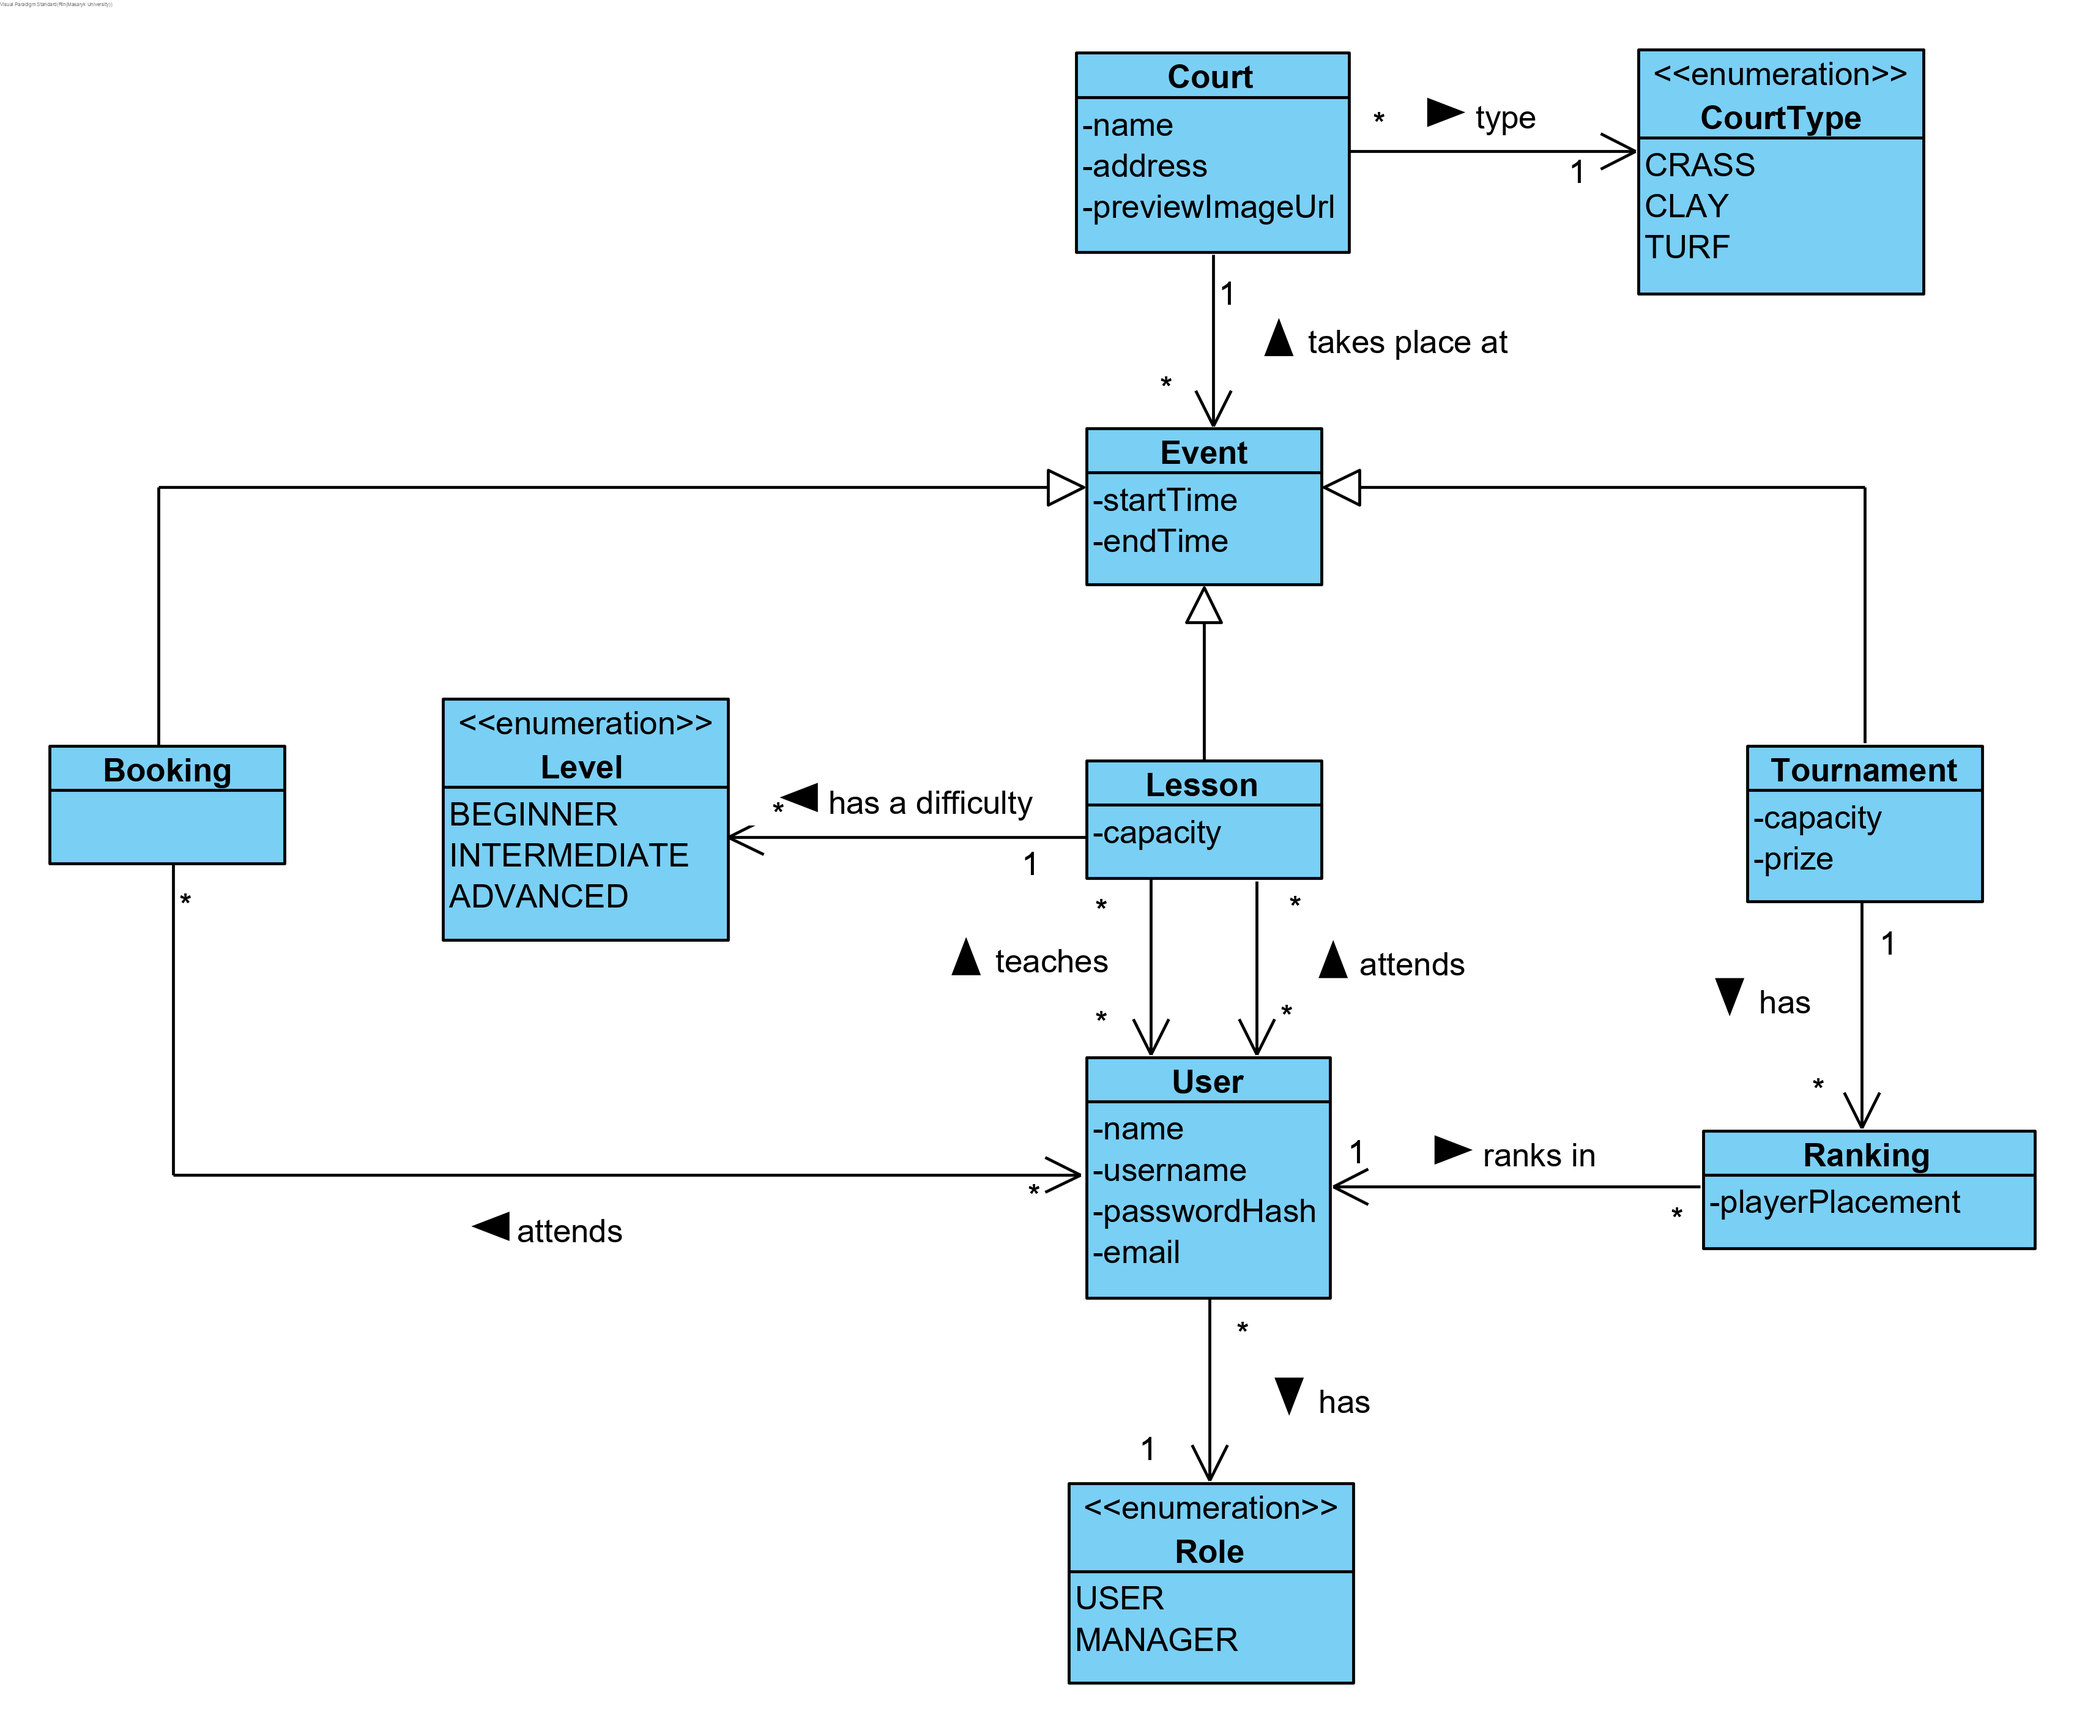
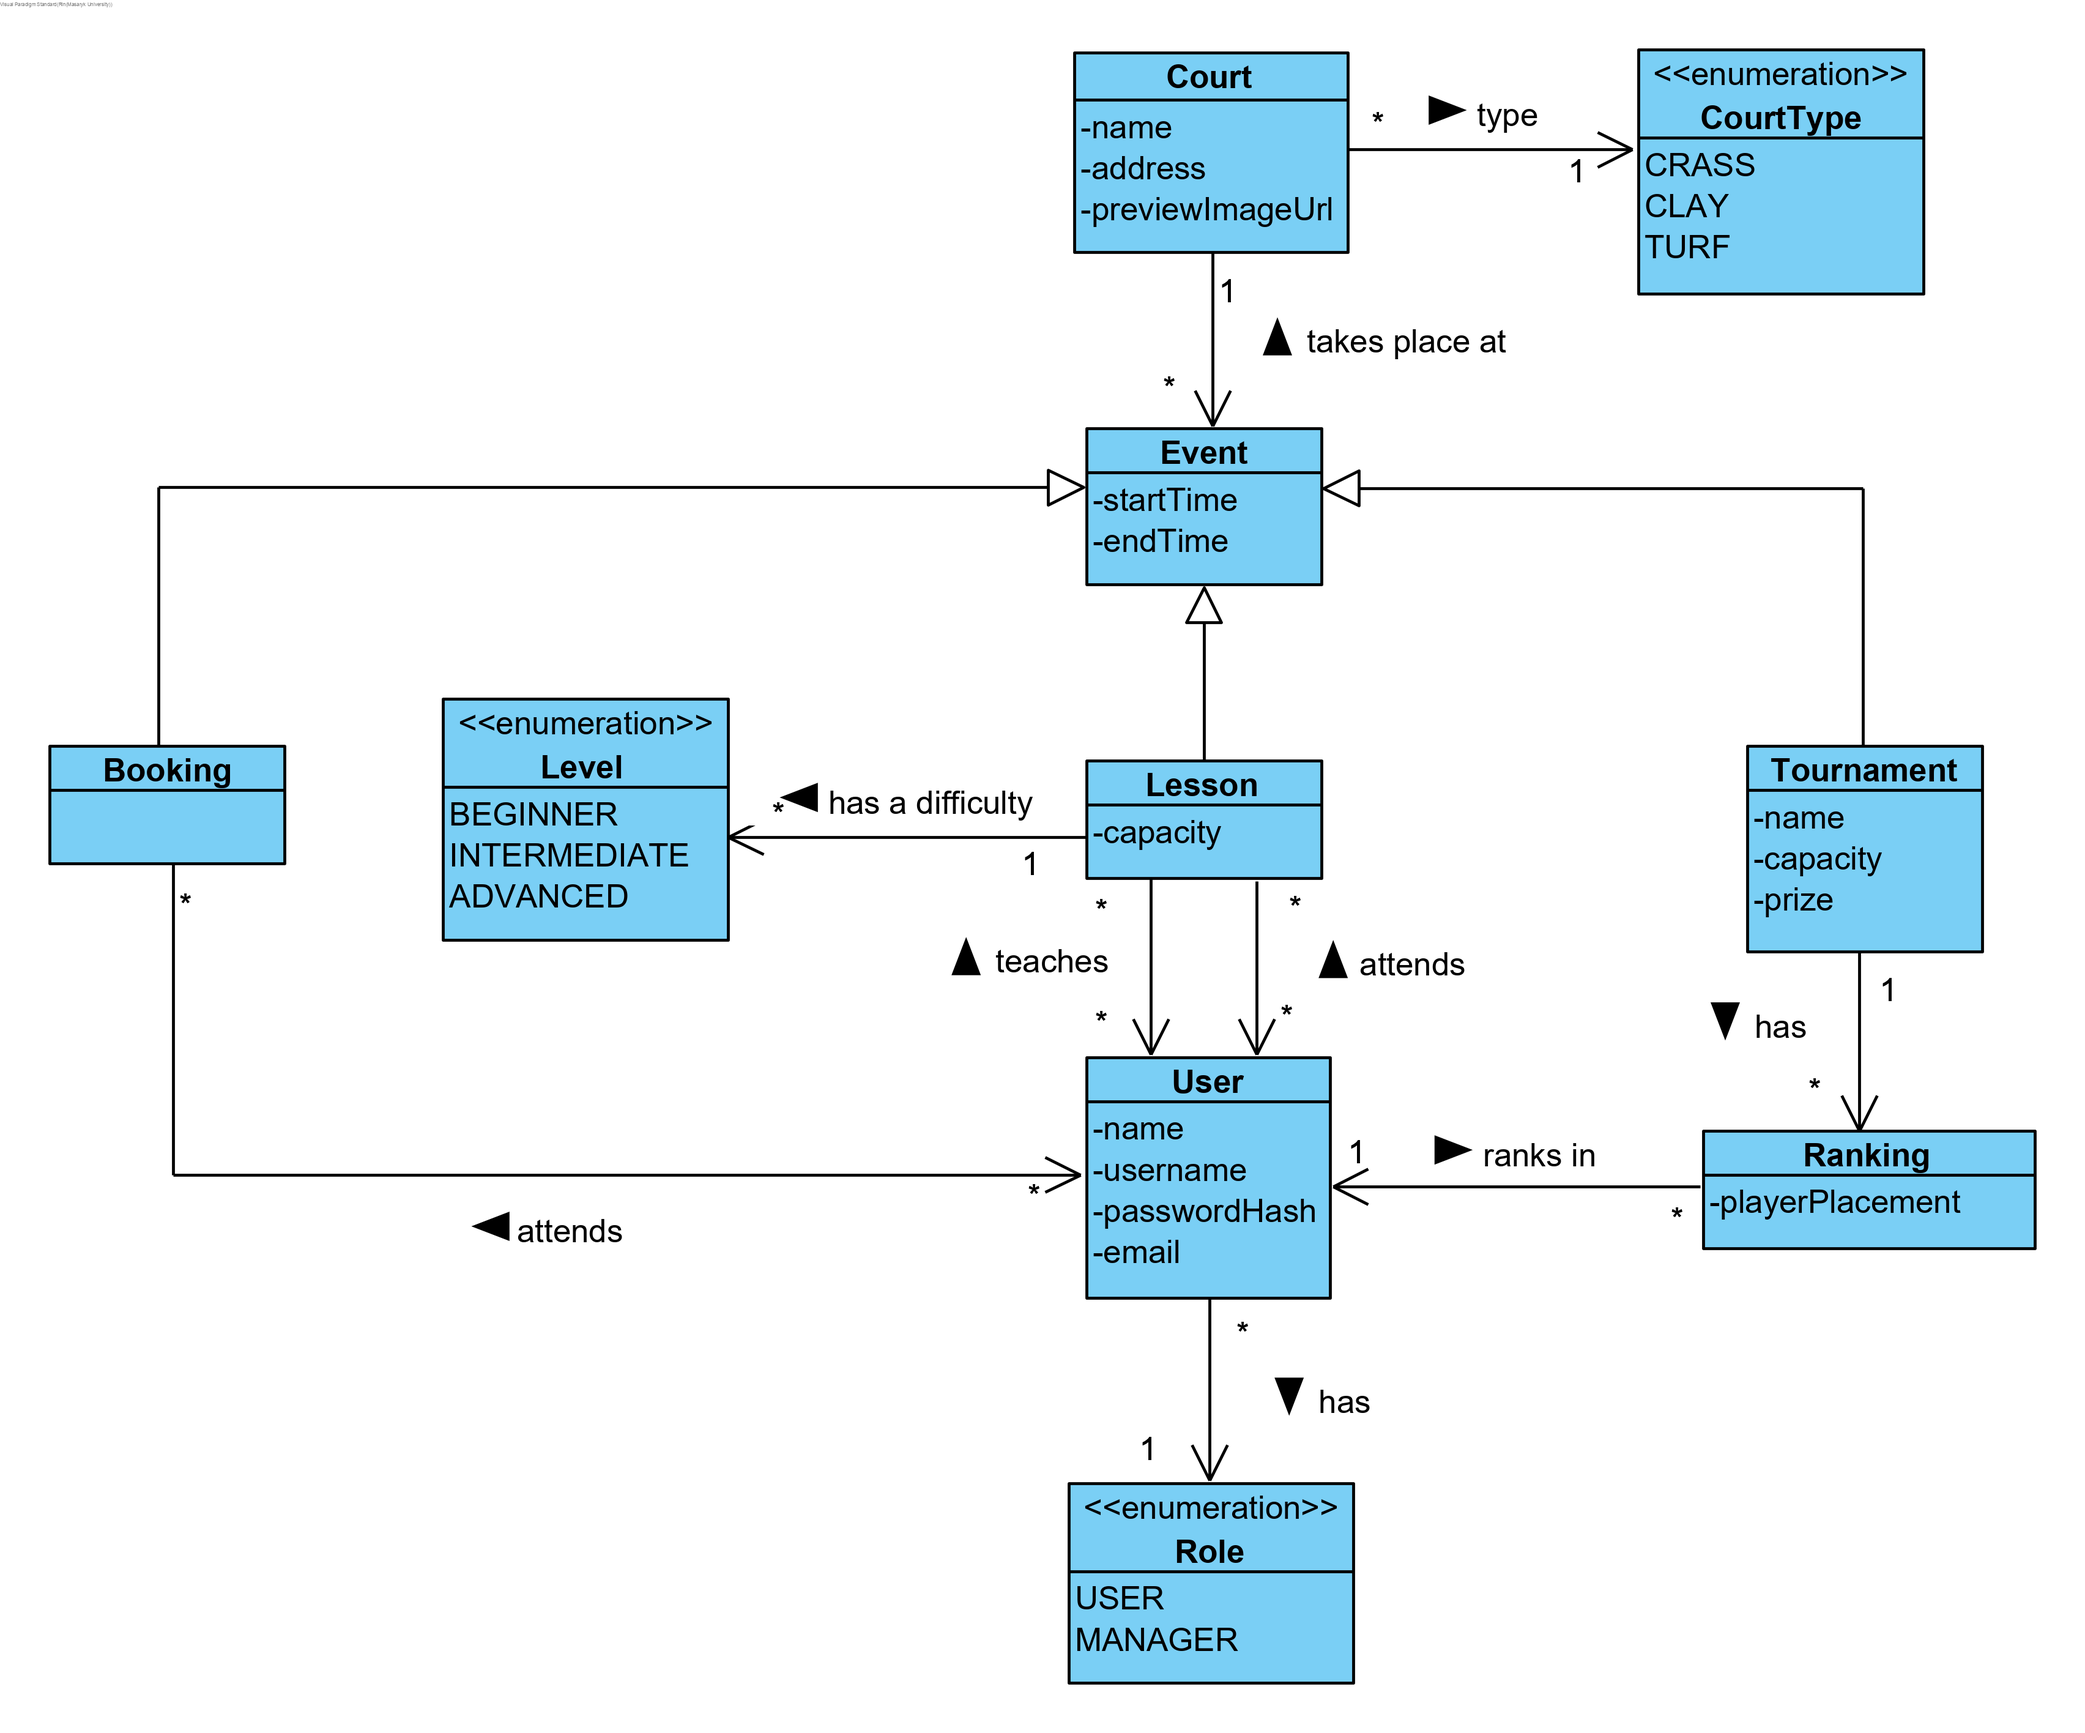
added name to Tournament entity
With that, the tests were adjusted accordingly

diff --git a/persistence/src/test/java/tennisclub/dao/EventDaoTest.java b/persistence/src/test/java/tennisclub/dao/EventDaoTest.java
@@ -68,7 +68,7 @@ public class EventDaoTest {
     private Event event = new Event(eventStart, eventEnd);
     private Event booking = new Booking(bookingStart, bookingEnd);
     private Event lesson = new Lesson(lessonStart, lessonEnd, Level.BEGINNER);
-    private Event tournament = new Tournament(tournamentStart, tournamentEnd, 10, 10000);
+    private Event tournament = new Tournament(tournamentStart, tournamentEnd, "Wimbledon",10, 10000);
 
 
     @BeforeEach
@@ -135,7 +135,7 @@ public class EventDaoTest {
 
     @Test
     public void testTournamentCreationOK(){
-        Event tournament = new Tournament(tournamentStart, tournamentEnd, 10, 10000);
+        Event tournament = new Tournament(tournamentStart, tournamentEnd,"Wimbledon", 10, 10000);
         tournament.setCourt(tournamentCourt);
         eventDao.create(tournament);
 
@@ -167,7 +167,7 @@ public class EventDaoTest {
 
     @Test
     public void testTournamentCreationWithoutCourt(){
-        Event tournament = new Tournament(tournamentStart, tournamentEnd, 10, 10000);
+        Event tournament = new Tournament(tournamentStart, tournamentEnd, "Wimbledon", 10, 10000);
         assertThatThrownBy(() -> eventDao.create(tournament)).isInstanceOf(DataIntegrityViolationException.class);
     }
 
@@ -591,7 +591,7 @@ public class EventDaoTest {
 
     @Test
     public void findTournamentsByCourtOfWhichThereAreTwoSharingTheSameCourt(){
-        Event otherTournament = new Tournament(otherStart, otherEnd, 10, 10000);
+        Event otherTournament = new Tournament(otherStart, otherEnd, "US OPEN", 10, 10000);
         otherTournament.setCourt(tournamentCourt);
         em.persist(otherTournament);
 
@@ -603,7 +603,7 @@ public class EventDaoTest {
 
     @Test
     public void findTournamentsByCourtOfWhichThereAreTwoNotSharingTheSameCourt(){
-        Event otherTournament = new Tournament(tournamentStart, tournamentEnd, 10, 10000);
+        Event otherTournament = new Tournament(tournamentStart, tournamentEnd, "US OPEN", 10, 10000);
         otherTournament.setCourt(otherCourt);
         em.persist(otherTournament);
 
@@ -687,7 +687,7 @@ public class EventDaoTest {
 
     @Test
     public void findTournamentsByStartTimeOfWhichThereAreTwoSharingTheSameStartTime(){
-        Event otherTournament = new Tournament(tournamentStart, tournamentEnd, 10, 10000);
+        Event otherTournament = new Tournament(tournamentStart, tournamentEnd, "US OPEN", 10, 10000);
         otherTournament.setCourt(otherCourt);
         em.persist(otherTournament);
 
@@ -699,7 +699,7 @@ public class EventDaoTest {
 
     @Test
     public void findTournamentsByStartTimeOfWhichThereAreTwoNotSharingTheSameStartTime(){
-        Event otherTournament = new Tournament(otherStart, otherEnd, 10, 10000);
+        Event otherTournament = new Tournament(otherStart, otherEnd, "US OPEN", 10, 10000);
         otherTournament.setCourt(tournamentCourt);
         em.persist(otherTournament);
 
@@ -783,7 +783,7 @@ public class EventDaoTest {
 
     @Test
     public void findTournamentsByEndTimeOfWhichThereAreTwoSharingTheSameEndTime(){
-        Event otherTournament = new Tournament(tournamentStart, tournamentEnd, 10, 10000);
+        Event otherTournament = new Tournament(tournamentStart, tournamentEnd,"US OPEN", 10, 10000);
         otherTournament.setCourt(otherCourt);
         em.persist(otherTournament);
 
@@ -795,7 +795,7 @@ public class EventDaoTest {
 
     @Test
     public void findTournamentsByEndTimeOfWhichThereAreTwoNotSharingTheSameEndTime(){
-        Event otherTournament = new Tournament(otherStart, otherEnd, 10, 10000);
+        Event otherTournament = new Tournament(otherStart, otherEnd, "US OPEN", 10, 10000);
         otherTournament.setCourt(tournamentCourt);
         em.persist(otherTournament);
 
@@ -1006,7 +1006,7 @@ public class EventDaoTest {
 
     @Test
     public void findTournamentByTimeIntervalStartTimeIsEqualToTo(){
-        Event otherTournament = new Tournament(tournamentEnd, tournamentEnd, 10, 10000);
+        Event otherTournament = new Tournament(tournamentEnd, tournamentEnd, "US OPEN", 10, 10000);
         otherTournament.setCourt(otherCourt);
         em.persist(otherTournament);
 
@@ -1018,7 +1018,7 @@ public class EventDaoTest {
 
     @Test
     public void findTournamentByTimeIntervalEndTimeIsEqualToFrom(){
-        Event otherTournament = new Tournament(tournamentStart, tournamentStart, 10, 10000);
+        Event otherTournament = new Tournament(tournamentStart, tournamentStart,"US OPEN", 10, 10000);
         otherTournament.setCourt(otherCourt);
         em.persist(otherTournament);
 
@@ -1030,7 +1030,7 @@ public class EventDaoTest {
 
     @Test
     public void findTournamentByTimeIntervalBothTimesAreOK(){
-        Event otherTournament = new Tournament(tournamentStart, tournamentEnd, 10, 10000);
+        Event otherTournament = new Tournament(tournamentStart, tournamentEnd,"US OPEN", 10, 10000);
         otherTournament.setCourt(otherCourt);
         em.persist(otherTournament);
 

diff --git a/persistence/src/test/java/tennisclub/dao/TournamentDaoTest.java b/persistence/src/test/java/tennisclub/dao/TournamentDaoTest.java
@@ -41,7 +41,7 @@ public class TournamentDaoTest {
         em.persist(court);
 
         tournament = new Tournament(LocalDateTime.of(2021, 3, 2, 13, 0 ),
-                LocalDateTime.of(2021, 3, 2, 14, 0 ), 15, 5_000);
+                LocalDateTime.of(2021, 3, 2, 14, 0 ), "Wimbledon", 15, 5_000);
         tournament.setCourt(court);
         em.persist(tournament);
     }
@@ -50,7 +50,7 @@ public class TournamentDaoTest {
     @Test
     public void testCreate() {
         Tournament created = new Tournament(LocalDateTime.of(2021, 4, 6, 13, 0 ),
-                LocalDateTime.of(2021, 4, 6, 14, 0 ), 10, 20_000);
+                LocalDateTime.of(2021, 4, 6, 14, 0 ), "Wimbledon",10, 20_000);
         created.setCourt(court);
 
         tournamentDao.create(created);
@@ -62,7 +62,7 @@ public class TournamentDaoTest {
     @Test
     public void testCreateWithNullCourt() {
         Tournament created = new Tournament(LocalDateTime.of(2021, 4, 6, 13, 0 ),
-                LocalDateTime.of(2021, 4, 6, 14, 0 ), 10, 20_000);
+                LocalDateTime.of(2021, 4, 6, 14, 0 ),"Wimbledon", 10, 20_000);
         created.setCourt(null);
 
         assertThatThrownBy(() -> tournamentDao.create(created))
@@ -72,7 +72,7 @@ public class TournamentDaoTest {
     @Test
     public void testCreateWithNullStartTime() {
         Tournament created = new Tournament(null,
-                LocalDateTime.of(2021, 4, 6, 14, 0 ), 10, 20_000);
+                LocalDateTime.of(2021, 4, 6, 14, 0 ),"Wimbledon", 10, 20_000);
         created.setCourt(court);
 
         assertThatThrownBy(() -> tournamentDao.create(created))
@@ -82,7 +82,17 @@ public class TournamentDaoTest {
     @Test
     public void testCreateWithNullEndTime() {
         Tournament created = new Tournament(LocalDateTime.of(2021, 4, 6, 13, 0 ),
-                null, 10, 20_000);
+                null, "Wimbledon",10, 20_000);
+        created.setCourt(court);
+
+        assertThatThrownBy(() -> tournamentDao.create(created))
+                .isInstanceOf(DataIntegrityViolationException.class);
+    }
+
+    @Test
+    public void testCreateWithNullName() {
+        Tournament created = new Tournament(LocalDateTime.of(2021, 4, 6, 13, 0 ),
+                LocalDateTime.of(2021, 4, 6, 14, 0 ), null,10, 20_000);
         created.setCourt(court);
 
         assertThatThrownBy(() -> tournamentDao.create(created))
@@ -92,7 +102,7 @@ public class TournamentDaoTest {
     @Test
     public void testCreateWithStartTimeAfterEndTime() {
         Tournament created = new Tournament(LocalDateTime.of(2021, 4, 7, 15, 0 ),
-                LocalDateTime.of(2021, 4, 6, 14, 0 ), 10, 20_000);
+                LocalDateTime.of(2021, 4, 6, 14, 0 ),"Wimbledon", 10, 20_000);
         created.setCourt(court);
 
         assertThatThrownBy(() -> tournamentDao.create(created))
@@ -135,7 +145,7 @@ public class TournamentDaoTest {
     @Test
     public void testFindAll() {
         Tournament anotherTournament = new Tournament(LocalDateTime.of(2021, 5, 9, 5, 30 ),
-                LocalDateTime.of(2021, 5, 9, 6, 0 ), 32, 2_000);
+                LocalDateTime.of(2021, 5, 9, 6, 0 ),"Wimbledon", 32, 2_000);
         anotherTournament.setCourt(court);
         em.persist(anotherTournament);
 
@@ -169,6 +179,13 @@ public class TournamentDaoTest {
     @Test
     public void testFindByEndTime() {
         List<Tournament> found = tournamentDao.findByEndTime(tournament.getEndTime());
+        assertThat(found.size()).isEqualTo(1);
+        assertThat(found).contains(tournament);
+    }
+
+    @Test
+    public void testFindByName() {
+        List<Tournament> found = tournamentDao.findByName(tournament.getName());
         assertThat(found.size()).isEqualTo(1);
         assertThat(found).contains(tournament);
     }
@@ -279,7 +296,7 @@ public class TournamentDaoTest {
 
 
     private Tournament createTournamentFromTime(LocalDateTime start, LocalDateTime end) {
-        Tournament t = new Tournament(start, end, 10, 10_000);
+        Tournament t = new Tournament(start, end, "Wimbledon", 10, 10_000);
         t.setCourt(court);
         return t;
     }

diff --git a/persistence/src/main/java/tennisclub/entity/Tournament.java b/persistence/src/main/java/tennisclub/entity/Tournament.java
@@ -13,6 +13,9 @@ import java.util.Set;
  */
 @Entity
 public class Tournament extends Event  {
+    @Column(nullable = false)
+    private String name;
+
     private Integer capacity;
 
     @Column(nullable = false)
@@ -23,12 +26,20 @@ public class Tournament extends Event  {
 
     public Tournament(){}
 
-    public Tournament(LocalDateTime startTime, LocalDateTime endTime, int capacity, int prize) {
+    public Tournament(LocalDateTime startTime, LocalDateTime endTime, String name, int capacity, int prize) {
         super(startTime, endTime);
+        this.name = name;
         this.capacity = capacity;
         this.prize = prize;
     }
 
+    public String getName() {
+        return name;
+    }
+
+    public void setName(String name) {
+        this.name = name;
+    }
 
     public Integer getCapacity() {
         return capacity;

diff --git a/persistence/src/test/java/tennisclub/dao/RankingDaoTest.java b/persistence/src/test/java/tennisclub/dao/RankingDaoTest.java
@@ -45,11 +45,11 @@ class RankingDaoTest {
         court.setName("My Court");
         manager.persist(court);
 
-        tournament = new Tournament(now(), now().plusHours(1), 10, 10000);
+        tournament = new Tournament(now(), now().plusHours(1), "Wimbledon", 10, 10000);
         tournament.setCourt(court);
         manager.persist(tournament);
 
-        otherTournament = new Tournament(now().plusHours(1), now().plusHours(2), 8, 5000);
+        otherTournament = new Tournament(now().plusHours(1), now().plusHours(2), "US OPEN", 8, 5000);
         otherTournament.setCourt(court);
         manager.persist(otherTournament);
 

diff --git a/persistence/src/main/java/tennisclub/dao/TournamentDaoImpl.java b/persistence/src/main/java/tennisclub/dao/TournamentDaoImpl.java
@@ -78,6 +78,13 @@ public class TournamentDaoImpl implements TournamentDao {
     }
 
     @Override
+    public List<Tournament> findByName(String name) {
+        return em.createQuery("SELECT t FROM Tournament t WHERE t.name = :name", Tournament.class)
+                .setParameter("name", name)
+                .getResultList();
+    }
+
+    @Override
     public List<Tournament> findByCapacity(Integer capacity) {
         return em.createQuery("SELECT t FROM Tournament t WHERE t.capacity = :capacity", Tournament.class)
                 .setParameter("capacity", capacity)

diff --git a/persistence/src/main/java/tennisclub/dao/TournamentDao.java b/persistence/src/main/java/tennisclub/dao/TournamentDao.java
@@ -84,6 +84,13 @@ public interface TournamentDao {
     List<Tournament> findByTimeInterval(LocalDateTime from, LocalDateTime to);
 
     /**
+     * Finds all Tournaments with particular name.
+     * @param name of the tournament
+     * @return all Tournaments which have the given name
+     */
+    List<Tournament> findByName(String name);
+
+    /**
      * Finds all Tournaments with particular capacity.
      * @param capacity of the tournaments
      * @return all Tournaments which have the given capacity
